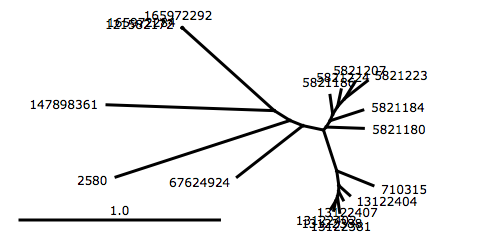
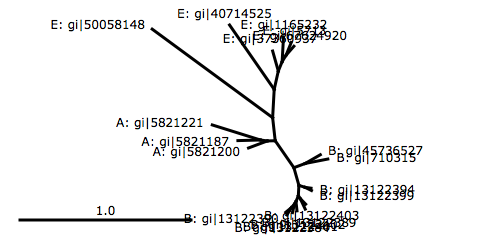
Updated the tutorial to improve the visual results by incorporating domain labels for each tip in the tree. Also rearranged some sections, and added example sequences.
git-svn-id: https://pycogent.svn.sourceforge.net/svnroot/pycogent/trunk@985 4565cf14-4326-0410-8d81-eccf4396eebe

Changed region(s): [[0.0625, 0.0292, 0.9062, 0.9917], [0.3438, 0.7292, 0.5, 0.7875], [0.1875, 0.8458, 0.2812, 0.9042]]

diff --git a/doc/cookbook/building_a_tree_of_life.rst b/doc/cookbook/building_a_tree_of_life.rst
@@ -46,30 +46,24 @@ You can check how many sequences you obtained for each query by running::
 Step 2: Load the sequences
 --------------------------
 
-We'll begin by loading the sequences that have been downloaded, applying a filter to retain only those that we consider to be of good quality, and renaming the sequences in the process. Sequences fewer than 750 bases or sequences containing one or more ``N``  characters will be ignored (these represent ambiguous bases).
+We'll begin by loading the sequences that have been downloaded, applying a filter to retain only those that we consider to be of good quality. Sequences fewer than 750 bases or sequences containing one or more ``N``  characters will be ignored (``N`` characters typically represent ambiguous base calls during sequencing).
 
 First, define a function to load and filter the sequences::
 
 	from cogent.parse.fasta import MinimalFastaParser
 	
-	def load_and_filter_seqs(seqs):
-	    filtered_seqs = []
-	    id_lookup = {}
+	def load_and_filter_seqs(seqs, domain_label):
+	    result = []
 	    for seq_id, seq in seqs:
-	        # Extract the accession number from the sequence.
-	        # Use that as the new sequence identifier.
-	        new_id = seq_id.split('|')[1]
-	        # Create a mapping from new to old identifiers.
-	        id_lookup[new_id] = seq_id
 	        if len(seq) > 750 and seq.count('N') < 1:
-	            filtered_seqs.append((new_id,seq))
-	    return filtered_seqs, id_lookup
+	            result.append((domain_label + seq_id,seq))
+	    return result
 
 Next, load and filter the three sequence sets::
 
-	arc16s_filtered, arc_ids = load_and_filter_seqs(arc16s)
-	bac16s_filtered, bac_ids = load_and_filter_seqs(bac16s)
-	euk16s_filtered, euk_ids = load_and_filter_seqs(euk16s)
+	arc16s_filtered = load_and_filter_seqs(arc16s,'A: ')
+	bac16s_filtered = load_and_filter_seqs(bac16s,'B: ')
+	euk16s_filtered = load_and_filter_seqs(euk16s,'E: ')
 	
 	len(arc16s_filtered)
 	len(bac16s_filtered)
@@ -94,14 +88,18 @@ Select some random sequences from each domain. Note that only a few sequences ar
 Step 4: Load the sequences into a SequenceCollection object
 -----------------------------------------------------------
 
-Use ``LoadSeqs`` to load the unaligned sequences into a ``SequenceCollection`` object::
+Use ``LoadSeqs`` to load the unaligned sequences into a ``SequenceCollection`` object. In this step we'll rename the sequences (by passing a ``label_to_name`` function) to only the accession number for the sequence. This facilitates visualization in downstream steps.
+
+::
 
 	from cogent import LoadSeqs, DNA
-	seqs = LoadSeqs(data=combined16s,moltype=DNA,aligned=False)
+	seqs = LoadSeqs(data=combined16s,moltype=DNA,aligned=False,label_to_name=lambda x: '|'.join(x.split('|')[:2]))
 
 You can explore some properties of this sequence collection. For example, you can count how many sequences are in the sequence collection object::
 
 	seqs.getNumSeqs()
+
+.. _step5:
 
 Step 5: Align the sequences using muscle
 ----------------------------------------
@@ -136,15 +134,25 @@ Have a quick look at the unrooted dendrogram::
 You should see something like this:
 
 	.. image:: ../images/tol_not_gap_filtered.png
-	   :width: 700
 
-Figure 1: A tree of life build from 16S rRNA sequences. The tree domains are not clearly distinct.
+Figure 1: A tree of life build from 16S rRNA sequences. A: archaeal sequence; B: bacterial sequences; E: eukaryotic sequences.
 
 
-Step 8: Filter highly gapped positions from the alignment
----------------------------------------------------------
+Step 8: Save the tree as a PDF
+-------------------------------
 
-To try to improve the quality of the alignment and therefore the tree, it's often a good idea to removed positions that contain a high proportion of gap characters from the alignment. These generally represent non-homologous regions of the sequence of interest, and therefore contribute little to our understanding of the evolutionary history of the sequence.
+Finally, you can save this tree as a PDF for sharing or later viewing::
+
+	dendrogram.drawToPDF('./tol.pdf')
+
+
+Extra credit: Alignment filtering
+---------------------------------
+
+Filter highly gapped positions from the alignment
+^^^^^^^^^^^^^^^^^^^^^^^^^^^^^^^^^^^^^^^^^^^^^^^^^
+
+To try to improve the quality of the alignment and therefore the tree, it's often a good idea to removed positions that contain a high proportion of gap characters from the alignment. These generally represent non-homologous regions of the sequence of interest, and therefore contribute little to our understanding of the evolutionary history of the sequence. These steps may result in a clearer delineation of the three domains on your tree, but the results will in part be dependent on the randomly chosen sequences in your alignment.
 
 To remove positions that are greater than 10% gap characters from the alignment, run the following command::
 
@@ -155,26 +163,104 @@ If you count the positions in both the full and reduced alignments you'll see th
 	len(aln)
 	len(gap_filtered_aln)
 
-Step 9: Rebuild the tree and visualize the result
--------------------------------------------------
-
 Rebuild the tree and visualize the result as before::
 
 	gap_filtered_tree = build_tree_from_alignment(gap_filtered_aln,DNA)
 	gap_filtered_dendrogram = UnrootedDendrogram(gap_filtered_tree)
 	gap_filtered_dendrogram.showFigure()
 
-You should now see something that much more clearly looks like a tree with three distinct groups. For example:
+Your tree should look something like this:
 
 	.. image:: ../images/tol_gap_filtered.png
-	   :width: 700
 
-Figure 2: A tree of life build from 16S rRNA sequences. There now appear to be three distinct domains.
+Figure 2: A tree of life build from 16S rRNA sequences. A: archaeal sequence; B: bacterial sequences; E: eukaryotic sequences.
 
-Step 10: Save the tree as a PDF
--------------------------------
+Filtering highly variable positions
+^^^^^^^^^^^^^^^^^^^^^^^^^^^^^^^^^^^
 
-Finally, you can save this tree as a PDF for sharing or later viewing::
+Another issue that adds noise to alignments of distantly related sequences is highly entropic (or highly variable) positions. To filter these, we can compute the Shannon Entropy or uncertainty of each position, and then remove the most 10% entropic positions.
 
-	gap_filtered_dendrogram.drawToPDF('./tol.pdf')
+First we'll compile the Shannon Entropy value for each position in the alignment::
+
+	sorted_uncertainties = sorted(gap_filtered_aln.uncertainties())
+
+Next we'll find the 90th percentile by sorting the uncertainties and finding that value that is 90% of the way through that list::
+
+	uncertain_90p = sorted_uncertainties[int(len(sorted_uncertainties)*0.9)]
+
+Next we'll identify and store the positions that have lower entropy than ``uncertain_90p``::
+
+	positions_to_keep = []
+	for i,u in enumerate(gap_filtered_aln.uncertainties()):
+	     if u < uncertain_90p:
+	         positions_to_keep.append(i)
+
+Then we'll filter the alignment to contain only those positions::
+
+	entropy_gap_filtered_aln = gap_filtered_aln.takePositions(positions_to_keep)
+
+We can then rebuild and visualize the tree::
+
+	entropy_gap_filtered_tree = build_tree_from_alignment(entropy_gap_filtered_aln,DNA)
+	entropy_gap_filtered_dendrogram = UnrootedDendrogram(entropy_gap_filtered_tree)
+	entropy_gap_filtered_dendrogram.showFigure()
+
+Your tree should look something like this:
+
+	.. image:: ../images/tol_entropy_gap_filtered.png
+
+Figure 3: A tree of life build from 16S rRNA sequences. A: archaeal sequence; B: bacterial sequences; E: eukaryotic sequences.
+
+While the trees in Figures 1, 2, and 3 don't look very different, an interesting point to note is the amount of information in each::
+
+	len(aln)
+	len(gap_filtered_aln)
+	len(entropy_gap_filtered_aln)
+
+The entropy and gap filtered alignment (``entropy_gap_filtered_aln``) contains approximately 1/4 of the positions as the full alignment (``aln``), yet results in a nearly identical phylogenetic tree. This suggests that the filtered positions add very little phylogenetic information. In small alignments such as the example here this may not have a large affect on run time, but when building a tree from thousands or tens of thousands of sequences removing gap and high entropy positions can save significant compute time as well as frequently improving results.
+
+Starting with Silva sequences (to skip steps of obtaining sequences from NCBI)
+------------------------------------------------------------------------------
+The following sequences are randomly chosen from the Silva database. You can use these instead of pulling random sequences from NCBI.
+
+::
+
+	fasta_str = """>AF424517 1 994 Archaea/Crenarchaeota/uncultured/uncultured
+	CAGCAGCCGCGGTAATACCAGCCCCCCGAGTGGTGGGGATGTTTATTTGGCCTAAAACGTCCGTAGCCAGCTCGGTAAATCTCTCGTTAAATCCAGCGTCCTAAGCGTTGGGCTGCGAGGGAGACTGCCAAGCTAGAGGGTGGGAGAGGTCAGCGGTATTTCTGGGGTAGGGGCGAAATCCATTGATCCCAGGAGGACCACCAGTGGCGAAGGCTGCTGACTAGAACACGCCTGACGGTGAGGGACGAAAGCTGGGGGAGCAAACCGGATTAGATACCCGGGTAGTCCCAGCTGTAAACGATGCAAACTCGGTGATGCCCTGGCTTGTGGCCAGTGCAGTGCCGCAGGGAAGCCGTTAAGTTTGCCGCCTGGGAAGTACGTACGCAAGTATGAAACTTAAAGGAATTGGCGGGGGAGCACCACAAGGGGTGAAGCCTGCGGTTCAATTGGAGTCAACGCCAGAAATCTTACCCGAAGAGACAGCAGAATGAAGGTCAAGCTGGAGACTTTACCAGACAAGCTGAGAAGTGGTGCATGGCCGTCGCCAGCTCGTGCCGTGAGATGTCCTGTTAAGTCAGGTAACCAGCGAGATCCCTGCCTCTAGTTGCCACCATTACTCTCCGGAGTAGTGGGGCGAATTAGCGGGACCGCCGTAGTTAATACGGAGGAAGGAAGGGGCCACGGCAGGTCAGTATGCCCTGAAACTTTGGGGCCACACGCGGGCTGCAATGGTAACGACAATGGGTTCCGAAACCGAAAGGTGGAGGTAATCCTCAAACGTTACCACAGTTATGATTGAGGGCTGCAACTCGCCCTCATGAATATGGAATCCCTAGTAACTGCGTGTCATTATCGCGCGGTGAATACGTCCCTGCTCCTTGCACACACTGCCCGTCGAACCACCCGAATGAGGTTTGGGTGAGGAATGGTCGAATGTTGGCCGTTTCGAACCTGGGCTTCGTAAGGAGGGTTAAGTCGTAACAAGGTAACCGTA
+	>AF448158 1 1828 Eukarya/Metazoa/Magelona et rel.
+	TTGATCCTGCCAGTAGTCATATGCTTGACTCAAAGATTAAGCCATGCATGTGCAAGTACATGACTTTTTTACACACGGTGAGACCGCGAATGGCTCATTAGATCAGTCTTAGTTCCTTAGACGGAAAGTGCTACTTGGATAACTGTGGCAATTCTAGAGCTAATACGTGCACGCAAGCTCCGACCTACTGGGGAAGAGCGCAATTATTAGATCAAGACCAAACGAGTCGAAAGGCTCGAACGTCTGGTGACTCTGGATAACCTCGGGCTGACCGCACGGCCAAGAGCCGGCGGCGCATCTTTCAAGTGTCTGCCCTATCAACTTTCGATGGTATGCGATCTGCGTACCATGGTGCTTACGGGTAACGGGGAATCAGGGTTCGATTCCGGAGAGGGAGCATGAGAAACGGCTACCACCTCCAAGGAAGGCAGCAGGCGCGCAAATTACCCACTCCTGGCACAGGGAGGTAGTGACGAGCAATAGCGACTCGGGACTCTTTCGAGGCCTCGGGATCGGAATGAGTACAACGTAAACACTTTTGCAAGGAACAATTGGAGGGCAAGTCTGGTGCCAGCAGCCGCGGTAATTCCAGCTCCAATAGCGTATATTAAAGCTGTTGCAGTTAAAAAGCTCGTAGCTGAATCTCGGGTGCGGGCGGGCGGTCCGCCTTACAGCGTGCACTGCCCCGATCCTGATCCAACTGCCGGTATTATCTCGGGGTGCTCTTAGCTGAGTGTCTTGGGCTGGCCGGTGCTTTTACTTTGAAAAAATTAGAGTGCTCAAAGCAGGCTTCCACGCCTGAATACTATAGCATGGAATAATGGAATAAGACCTCGGTTCTATTCTGTTGGTCTCTGGAAACCAGAGGTAATGATTAAGAGGGACAGACGGGGGCATTCGTATTGCGGGGCGAGAGGTGAAATTCTTAGACCCTCGCAAGACGAACTACAGCGAAAGCATTTGCCAAGCATGTTTTCTTTAGTCAAGAACGAAAGTCAGAGGTTCGAAGACGATCAGATACCGTCCTAGTTCTGACCATAAACGATGCCGACTAGCGATGCGCGAGCGTTGGTATCTGACCTCGCGCGCAGCTCCCGGGAAACCAAAGTCTTTGGGTTCCGGGGGAAGTATGGTTGCAAAGCTGAAACTTAAAGGAATTGACGGAAGGGCACCACCAGGAGTGGAGCCTGCGGCTTAATTTGACTCAACACGGGAAAACTCACCCGGCCCGGACACTGCGAGGATTGACAGATTGAGAGCTCTTTCTTGATTCGGTGGGTGGTGGTGCATGGCCGTTCTTAGTTGGTGGAGTGATTTGTCTGGTTAATTCCGATAACGAACGAGACTCTAGCCTGCTAAATAGTTCGTCGACACGCGGTTGTGTCTGGCGAGGAAACTTCTTAGAGGGACAAATGGCATTTAGTCATACGAGATTGAGCAATAACAGGTCTGTGATGCCCTTAGATGTTCGGGGCCGCACGCGCGCTACACTGAAGGAGACAGCGAGTGTCCTGACCTAGCCCGAAAGGGCCGGGCAATCTGCTGAACCTCTTTCGTGGTAGGGATTGGGGCTTGCAATTGTTCCCCATGAACCAGGAATTCCGAGTAAGCGCAGGTCACAAGCCTGCGTTGATTACGTCCCTGCCCTTTGTACACACCGCCCGTCGCTACTACCGATTGAGCGGTTCAGTGAGACCCTCGGACTTGCCCAGCAGGAGCCGGCGACGGCTCCGCGTGTGTGCGAGAAAGAATGTCGAACTGTATTGCTTAGAGGAAGTAAAAGTCGTAACAAGGTTTCCGTAGGTGAACCTGCAGAAGGATCAAGCTT
+	>AJ428075 1 1749 Eukarya/Viridiplantae/Streptophyta/Klebsormidiophyceae
+	TAGTCATATGCTTGTCTCAAAGATTAAGCCATGCATGTCTAAGTATAAATTACTCTAAATGGTAAAACTGCGAATGGCTCATTAAATCAGTTATAGTTTATTTGATGATTCCTGCTACTCGGATAACCGTAGTAATTATAGAGCTAATACGTGCGCAAACGCCCGACTTCGGAAGGGCCGTATTTATTAGATAAAAGACCAACTCGGGGTTCGCCCCGAAACTTTGGTGATTCATAATGTAATCTCGGACCGCACGGCCTCGCGCCGGCGGCAAATCAATCAAATATCTGCCCTATCAACTTTCGATGGCAGGATAGTCGCCTGCCATGGTTGTAACGGGTGACGGAGAATTAGGGTTCGATTCCGGAGAGGGAGCATGAGAAACGGCTACCACATCCAAGGAAGGCAGCAGGCGCGCAAATTACCCAATCCTGATTCAGGGAGGTAGTGACAATAAATAACAATACCGGTCTCTTATGTGACTGGTAATTGGAATGAGCGGAACATAAATACCTTAACGAGGATCCATTGGAGGGCAAGTCTGGTGCCAGCAGCCGCGGTAATTCCAGCTCCAATAGCGTATATTTAAGTTGTTGCAGTTAAAAAGCTCGTAGTTGGATTTCGGGACGGAGACGTCGGTCCTCCCTCGTGGTCGATACTGACTCTCTTCCTTAATTGCCTCGAGCGCCGCCTAGTCTTCATTGCCTGGGCGCGCTACGCGGCGCCGTTACCTTGAATAAATTATGGTGTTCAAAGCAGGCTTATGCTCTGAGTACATTAGCATGGAATAACGCTATAGGACTCCGGTCCTATTACGTTGGTCTTCTGACCGGAGTAATGATTAATAGGGACAGTCGGGGGCATTCGTACTTCATCGTTAGAGGTGAAATTCTTGGATCGATGAAAGACGAACTTCTGCGAAAGCATTTGCCAAGGATGTTTTCATTAATCAAGAACGAAAGTTGGGGGCGCGAAGACGATTAGATACCGTCCTAGTCCCAACCGTAAACGATGCCGACCCCGAATTGGCGCACGTATGACTTGACGTCGCCAGCGCCCGAGGAGAAATCAGAGTCTTTGGGTTCCGGGGGGAGTATGGTCGCAAGTCTGAAACTTAAAGGAATTGACGGAAGGGCACCACCAGGTGTGGAGCGTGCGGCTTAATTTGACTCAACGCGGGGAATCTTACCAGGTCCAGACATAGCGACGATTGACAGACTGATAGCTCTTTCTTGATCATATGGGTAGTGGTGCATGGCCGTTCTTAGTTGGTGGAGTGATTTGTCTGGTTAATTCCGTTAACGAACGAGACCTCAGCTTGCTAACTAGTTGCGCGAAGATTTTCTTCGCGCACACTTCTTAGAAGGACTTTGAGCGTTTAGCTCATGGAGGTTTGAGGCAATAACAGGTCTGTGATGCCCTTAGATGTTCTGGGCCGCACGCGCGCTACAATGATGCATTCAGCGAGCGGAATCCCTGATCGGAAACGGTCGGGCAATCTTTGAATCTTTATCGTGATGGGGATAGACCCTTGCAATTATTGGTCTCGAACGAGGAATACCTAGTAAGCGCTCGTCATCAGCGTGCGCTGACTACGTCCCTGCCCTTTGTACACACCGCCCGTCGCTCCTACCGATAGAATGCTTCGGTGAAGCACTCGGATCGCGCCGCCGSCGGCGAAACCTCCGGGGACGGCATGAGAAGTTTGTTAAACCATATCGTTTAGAGGAAGGAGAAGTCGTAACAAGG
+	>AJ850036 1 1961 Eukarya/Metazoa/Arthropoda/Polyphaga/Bagous et rel.
+	TTGTCTCAAAGATTAAGCCATGCATGTCTCAGTACAAGCCATATTAAGGTGAAACCGCGAAAGGCTCATTAAATCAGTTATGGTTCCTTAGATCGTACCCAGGTTACTTGGATAACTGTGGTAATTCTAGAGCTAATACATGCAAACAGAGCTCCGACTGGAAACGGAAGGAGTGCTTTTATTAGATCAAAGCCAAACGGTAACTTAATGTTGTCGTACAATAATATTGTTGACTCTGAATAACTTTATGCTGATCGCATGGTCTTGCACCGGCGACGCATCTTTCAAATGTCTGCCTTATCAACTGTCGATGGTAGGTTCTGCGCCTACCATGGTTGTAACGGGTAACGGGGAATCAGGGTTCGATTCCGGAGAGGGAGCCTGAGAAACGGCTACCACATCCAAGGAAGGCAGCAGGCGCGCAAATTACCCACTCCCGGCACGGGGAGGTAGTGACGAAAAATAACGATACGGGACTCATCCGAGGCCCCGTAATCGGAATGAGTACACTTTAAATCCTTTAACGAGGATCAATTGGAGGGCAAGTCTGGTGCCAGCAGCCGCGGTAATTCCAGCTCCAATAGCGTATATTAAAGTTGTTGCGGTTAAAAAGCTCGTAGTCAAATTTGTGTCTCGTGCCGCTGGTTCATCGTTCGCGGTGTTAATTGGCGTGATACGAGACGTCCTGCCGGTGGGCTTTCAGATTTTTCCGTATTTCAGGACCATAACAATTGGTTTGTATCTGTGGCGTAATACTGCAGTGCAGGGCAATTGGTTAATGAACGGTTGGTTTTTGTGCTACCCAAACTTACAATCCTGTCGCGTTGCTCTTGATTGAGTGACGAGGTGGGCCGGCACGTTTACTTTGAACAAATTAGAGTGCTTAAAGCAGGCAAAATTTCGCCTGAATATTCTGTGCATGGAATAATGGAATAGGACCTCGGTTCTATTTCGTTGGTTTTCGGAACTCCGAGGTAATGATTAATAGGAACGGATGGGGGCATTCGTATTGCGACGTTAGAGGTGAAATTCTTGGATCGTCGCAAGACGAACAGAAGCGAAAGCATTTGCCAAAAACGCTTTCATTGATCAAGAACGAAAGTTAGAGGTTCGAAGGCGATCAGATACCGCCCTAGTTCTAACCGTAAACTATGTCATCTGACGATCCGTCGACGTTCCTTTATTGACTCGACGGGCAGTTTCCGGGAAACCAAAGATTTTGGGTTCCGGGGGAAGTATGGTTGCAAAGCTGAAACTTAAAGGAATTGACGGAAGGGCACCACCAGGAGTGGAGCCTGCGGCTTAATTTGACTCAACACGGGAAACCTCACCAGGCCCGGACACCGGAAGGATTGACAGATTGAGAGCTCTTTCTTGATTCGGTGGGTGGTGGTGCATGGCCGTTCTTAGTTGGTGGAGCGATTTGTCTGGTTAATTCCGATAACGAACGAGACTCTAGCCTGCTAAATAGGCGACATATGACATCGCAAAGGCCAGCCGGTTTGATTTAAAGGGTGGCGAGGTGGCGTCAAGGCGTTTATCTCGTGCTCTTGTCAGATTGTGCGCGGTTTTTACTGTCGGCGTATAAATAATTCTTCTTAGAGGGACAGGCGGCTTTTAGCCGCACGAGATTGAGCAATAACAGGTCTGTGATGCCCTTAGATGTTCTGGGCCGCACGCGCGCTACACTGAAGGAATCAGCGTGTCCTCCCTGGCCGAGTGGCCCGGGTAACCCGCTGAACCTCCTTCGTGCTAGGGATTGGGGCTTGCAATTGTTCCCCATGAACGAGGAATTCCCAGTAAGCGCGAGTCATAAGCTCGCGTTGATTACGTCCCTGCCCTTTGTACACACCGCCCGTCGCTACTACCGATTGAATGATTTACTGAGGTCTTCGGATCGATGCGCGATGACGTCTGACGTTGATCGATGTATCCGAGAAGATGACCAAACTTGATCATTT
+	>AM745254 1 1365 Archaea/Euryarchaeota/Halobacteriales/uncultured
+	TTCCGGTTGATCCTGCCGGACCTGACTGCTATTGGAGTAGGACTAAGTCACGCTAGTCAAAGGTGTGGAATGGAACACCTGGCGCACGGCTCAGTAACACGTAGTGAACCTACCCTAAGGACGAGGACAACCACGGGAAACTGTGGCTAATCCTCGATAGGAAATTTGGCCTGGAACGGTATCTTTCCTAAAACCGGCTCGCCGTGAGACACGGGCCTTAGGATGGCGCTGCGGCCGATTATGCTAGACGGCGGTGTAAAGGACCACCGTGGCGACGATCGGTATGGGCGATGGAAGTCGGAGCCCAGAGTCGGCTACTGAGACAAGGAGCCGAGCCTTACGAGGCTTAGCGGTCGCGAAAACTCGCCAATGCACGAAAGTGTGAGTGGGCTACTCCAAGTGTCATTCTTACGGATGACTGTCGCCCAGTTTTACAAGCTGGGAAAGGAAGGAGAGGGCAAGGCTGGTGCCAGCCGCCGCGGTAAAACCAGCTCTTCGAGTGGTCAGGACGAATATTGGGTCTAAAGCGTTCGTAGCGGGACAAGTAGGTTCCTGGTTAAATCCGATGTCACAAGCATCGGGCTGCTGGGAATACCGCTAGTCTTGAGAGCGGGATAGGACAGGGGTAGTCTATGGGCAGGGGTGAAATCCAGTGATCCATAGGCGACCACCGATGGCGAAGGCACCTGTCTGGAACGTATCTAACCGTGATGGACGAAAGCCAGGGGAGCGACCCGGATTAGATACCCGGTTAGTCCTGGCCGTAAACGATGCCGACTAGGTGTTGCAGCGGCCAAGAGCCACTGCAGTGCCACAGTGAAGACGTTAAGTCGGCCACCTGGGGAGTACGGTCGCAAGACTGAAACTTAAAGGAATTGACGGGGGCGCACCACCAGGAGTGAAGCCTGCGGTTTAATTGGATTCAACGCCGAAAAACTCACCTAAACAGACGGCAGAATGAAGCTCAAGTTAATGACTTTAGCTAACTCGCCGAGAGGAAGTGCATGGCCGTCGACAGTTCGTGCTGTGAAGTGTCTTGTTAAGTCAAGCAACGAACGAGATCCACGTCCGCAATTGCCAGCGGGTCCCTTTGGGATGCCGGGAACCTTGCGGAGACTGCTTGGTGCTAAACCAGAGGAAGGAGTGGGCAACGGCAGGTCAGTATGCTCCGATAGTTTAGGGCTACACGCGGGCTGCAATGGTCGGTACAATGGGCCGCGACCCCGAAAGGGGAAGCCAATCCCGAAAGCCGGTCTCAGTCAGGATTGGGGTTTGCAACTCAGCCCCATGAATATGGAATTCCTAGTAAACGTGTTTCATTAAGACACGTTGAATACGTCCCCGCGCCTTGTACACACCGCCCGT
+	>AY175392 1 1057 Archaea/Euryarchaeota/Methanomicrobiales
+	CCCTTTCTGGTTGATCCTGCCAGAGGCCACTGCTATCGGGGTTCGACTAAGCCATGCGAGTCGAGAGGGGTAATGCCCTCGGCGAACGGCTCAGTAACACGTGGACAACCTACCCTCAGATCTGGGATAACTCCGGGAAACTGGAGATAATACCGGATAATCCGTGAACGCTGGAATGCCTTACGGTTCAAAGCTTTAGCGTCTGAGGATGGGTCTGCGGCCGATTAGGTAGTTGCTGGGGTAACGTCCCAACAAGCCGATAATCGGTACGGGTTGTGAGAGCAAGAGCCCGGAGATGGATTCTGAGACACGAATCCAGGTCCTACGGGGCGCAGCAGGCGCGAAAACTTTACACTGCGCGAAAGCGCGATAAGGGAACCTCGAGTGCGTGCGCAATGCGTACGCTTTTCACATGCCTAAAAAGCATGTGGAATAAGAGCCGGGCAAGACCGGTGCCAGCCGCCGCGGTAACACCGGCGGCTCAAGTGGTGGCCGCTATTATTGGGCTTAAAGGGTCCGTAGCCGGACCAGTTAGTCCCTTGGGAAATCTTACGGCTTAACCGTAAGGCTGCCAATGGATACTGCTGGCCTTGGGACCGGGAGAGGCAAGAGGTACCTCAGGGGTAGGAGTGAAATCCTGTAATCCTTGAGGGACCGCCAGTGGCGAAGGCGTCTTGCTAGAACGGGTCCGACGGTGAGGGACGAAAGCTAGGGGCACGAACCGGATTAGATACCCGGGTAGTCCTAGCCGTAAACGATGCGAGCTAGGTGTCACGTGGATTGCGAATCCATGTGGTGCCGTAGGGAAACCGTGAAGCTCGCCGCCTGGGAAGTACGGCCGCAAGGCTGAAACTTAAAGGAATTGGCGGGGGAGCACCACAACGGGTGGAGCCTGCGGTTTAATTGGACTCAACGCCGGAAAGCTCACCGGAGACGACAGCGGGATGAGGGCCAGGCTGATGACCTTGCTAGACTAGCTGAGAGGAGGTGCATGGCCGCCGTCAGTTCGTACCGTGAGGCGTCCTGTTAAGTCAGGCAACGAGCGAGACCCAAAGGG
+	>AY284588 1 1736 Eukarya/Metazoa/Nematoda/Aphelenchus et rel.
+	CTCAAAGATTAAGCCATGCATGTGTAAGTATAAACGATTCAATCGTGAAACCGCGAACGGCTCATTATAACAGCTATGATCTACTTGATCTTGAGAATCCTAATTGGATAACTGTAGTAATTCTAGAGCTAATACATGCATAAGAGCTCGAACCTTGCGCAAGCGGGGGAAGAGTGCATTTATTGGAAGAAGACCAGTTGTGGCTGTAAAAAGCTGCATGTCGTTGACTCGCAATAACTAAGCTGATCGCATGGCCTTGTGCCGGCGACGAGTCTTTCGAGTATCTGCCTTATCAACTTTCGACGGTAGTGTATTTGACTACCATGGTGGTGACGGGTAACGGAGGATAAGGGTTCGACTCCGGAGAAGGGGCCTGAGAAATGGCCACTACGTCTAAGGATGGCAGCAGGCGCGCAAATTACCCACTCTCGGTACGAGGAGGTAGTGACGAAAAATAACGAAGAGGTCCCCTATGGGTCTTCTATTGGAATGGGTACAATTTAAACCCTTTAACGATTAACCAAGAGAGGGCAAGTCTGGTGCCAGCAGCCGCGGTAATTCCAGCTCTCTAAATGCATAGATACATTGCTGCGGTTAAAAAGCTCGTAGTTGGATCTGTGTTGGGGACTTGGTCCACTCTAACGGGTGGTACTTTGCTCCTTGACAATCAATGTTGGCTCACTTGGCGTAGTCTTCAGTGATTGCGTCATAGTTGGCTGACGAGTTTACTTTGAGCAAATCAGAGTGCTCCAAACAGGCGTTTACGCTTGAATGTTCGTGCATGGAATAATAGAAGAGGATTTCGGTTCTATTTTGTTGGTTTTGAGACCGAGATAATGGTTAACAGAGACAGACGGGGGCATTCGTACTTCTGCGTGAGAGGTGAAATTCTTGGACCGCAGAAAGACGCACCACAGCGAAAGCATTTGCCAAGAATGTCTTCATTAATCAAGAACGAAAGTCAGAGGATCGAAGGCGATCAGATACCGCCCTAGTTCTGACCGTAAACGATGCCAACTAGCGATCTGTCGGTGGTGTGTTTTCGCCCTGATAGGGAGCTTCCCGGAAACGAAAGTCTTCGGGTTCCGGGGGAAGTATGGTTGCAAAGCTGAAACTTAAAGGAATTGACGGAAGGGCACCACCAGGAGTGGAGCCTGCGGCTTAATTTGACTCAACACGGGAAACCTCACCCGGGCCGGACACCGTAAGGATTGACAAATTGATAGCTTTTTCATGATTCGGTGGTTGGTGGTGCATGGCCGTTCTTAGTTCGTGGAGCGATTTGTCTGGTTTATTCCGATAACGAGCGAGACTCTAGCCTACTAAATAGTTGGCACATTACATTGTGCGTCCTAACTTCTTAGAGGGATTTACGGCGTATAGCCGCAAGAGAATGAGCAATAACAGGTCTGTGATGCCCTTAGATGTCCGGGGCTGCACGCGCGCTACACTGGTGAAATCAACGTGTTCTCCTATGCCGAGAGGCACTTGGGTAAACCATTGAAAATTCGCCGTGATTGGGATCGGAGATTGAAATTATTTTCCGTGAACGAGGAATTCCAAGTAAGTGCGAGTCATCAACTCGCGTTGATTACGTCCCTGCCCTTTGTACACACCGCCCGTCGCTACCCGGGACTGGGTTATTTCGAGAAATTTGAGGATTGGCTAGGTGCTTGATGCCTCCGGGTGTCATCGCCTGTCGAGAATCAACTTAATCGAGATGGCCTGAACCGGGT
+	>AY454558 1 1110 Archaea/Crenarchaeota/uncultured/uncultured
+	ACTCACTAAGAGCGAATTGGGCCTTTCGTCGCATGCTAAAAGGCCGCCATGGCCGCGGGATTGGGCACGGGGGGACGGGTTGCCGCAGGCGCGAAACCTCTGCAATAGGCGAAAGCTTGACAGGGTTACTCTGAGTGATTTCCGTTAAGGAGATCTTTTGGCACCTCTAAAAATGGTGCAGAATAAGGGGTGGGCAAGTCTGGTGTCAGCCGCCGCGGTAATACCAGCACCCCGAGTGGTCGGGACGTTTATTGGGCCTAAAGCATCCGTAGCCGGTTCTACAAGTCTTCCGTTAAATCCACCTGCTTAACAGATGGGCTGCGGAAGATACTATAGAGCTAGGAGGCGGGAGAGGCAAGCGGTACTCGATGGGTAGGGGTAAAATCCGTTGATCCATTGAAGACCACCAGTGGCGAAGGCGGCTTGCCAGAACGCGCTCGACGGTGAGGGATGAAAGCTGGGGGAGCAAACCGGATTAGATACCCGGGTAGTCCCAGCTGTAAACGATGCAGACTCGGTGATGAGTTGGCTTCTTGCTAACTCAGTGCCGCAGGGAAGCCGTTAAGTTTGCCGCCTGGGGAGTACGGTCGCAAGACTGAAACTTAAAGGAATTGGCGGGGGAGCACCACAAGGGGTGAAGCCTGCGGTTCAATTGGAGTCAACGCCGGAAATCTTACCGGGGGCGACAGCAGAGTGAAGGTCAAGCTGAAGACTTTACCAGACAAGCTGAGAGGAGGTGCATGGCCGTCGCCAGCTCGTGCCGTGAGGTGTCCTGTTAAGTCAGGTAACGAGCGAGATCCCTGCCTCTAGTTGCTACCATTATTCTCAGGAGTAGTGGAGCTAATTAGAGGGACCGCCGTCGCTGAGACGGAGGAAGGTGGGGGCTACGGCAGGTCAGTATGCCCCGAAACCCTCGGGCCACACGCGGGCTGCAATGGTAAGGACAATGAGTTTCAATTCCGAAAGGAGGAGGCAATCTCTAAACCTTACCACAGTTATGATTGAGGGCTGAAACTCGCCCTCATGAATATGGAATCCCTAGTAACCGCGTGTCACTATCGCGCGGTGAATACGTCCCTGCTCCTTGCACGAGTTAACCGAATCACTAGT
+	>DQ421767 1 1422 Bacteria/Beta Gammaproteobacteria/Gammaproteobacteria_1/Oceanospirillales_2/Marinomonas
+	AGCGGTAACAGGAATTAGCTTGCTAATTTGCTGACGAGCGGCGGACGGGTGAGTAACGCGTAGGAATCTGCCTGGTAGTGGGGGACAACATGTGGAAACGCATGCTAATACCGCATACGCCCTACGGGGGAAAGGAGGGGATCTTCGGACCTTTCGCTATCAGATGAGCCTGCGTGAGATTAGCTAGTTGGTGGGGTAAAGGCTCACCAAGGCGACGATCTCTAGCTGGTCTGAGAGGATGATCAGCCACACTGGGACTGAGACACGGCCCAGACTCCTACGGGAGGCAGCAGTGGGGAATATTGGACAATGGGCGCAAGCCTGATCCAGCCATGCCGCGTGTGTGAAGAAGGCCTTCGGGTTGTAAAGCACTTTCAGTTGGGAAGATGATGACGTTACCAACAGAAGAAGCACCGGCTAAATCCGTGCCAGCAGCCGCGGTAATACGGAGGGGGTTAGCGTTGTTCGGAATTACTGGGCGTAAAGCGCGCGTAGGCGGACCAGAAAGTTGGGGGTGAAATCCCGGGGCTCAACCCCGGAACGGCCTCCAAAACTCCTGGTCTTGAGTACGGCAGAGGGGGATGGAATTCCGCGTGTAGCAGTGAAATGCGTAGATATAGGAAGGAACATCAGTGGCGAAGGCGACACCCTGGACCGATACTGACACTGAGGTGCGAAAGCGTGGGGAGCAAACAGGATTAGATACCCTGGTAGTCCACGCCGTAAACGATGTCTACTAGCCGTTGGGGATTTTATTCTTAGTGGCGCAGCTAACGCGATAAGTAGACCGCCTGGGGAGTACGGCCGCAAGGTTAAAACTCAAATGAATTGACGGGGGCCCGCACAAGCGGTGGAGCATGTGGTTTAATTCGAAGCAACGCGAAGAACCTTACCTACTCTTGACATCCAGAGAATTTAGCAGAGATGCTTTAGTGCCTTCGGGAACTCTGAGACAGGTGCTGCATGGCTGTCGTCAGCTCGTGTTGTGAGATGTTGGGTTAAGTCCCGTAACGAGCGCAACCCTTATCCTTATTTGCCAGCACTTCGGGTGGGAACTCTAAGGAGACTGCCGGTGACAAACCGGAGGAAGGTGGGGACGACGTCAAGTCATCATGGCCCTTACGAGTAGGGCTACACACGTGCTACAATGGCGTATACAGAGGGCCGCAAGACCGCGAGGTGGAGCAAATCCCAAAAAGTACGTCGTAGTCCGGATTGGAGTCTGCAACTCGACTCCATGAAGTCGGAATCGCTAGTAATCGTGAATCAGAATGTCACGGTGAATACGTTCCCGGGCCTTGTACACACCGCCCGTCACACCATGGGAGTTGATTGCTCCAGAAGTAGCTAGCTTAACCTTCGGGATGGCGGTTACCACGGAGTGGTCATGACTGGGGTGAAGTCGTAACAAGGTAGCCTAGG
+	>DQ628981 1 1786 Eukarya/Rhodophyta et al./Rhodophyta/Florideophyceae/Corallinales
+	CACCTGGTTGATCCTGCCAGTGGTATATGCTTGTCTCAAAGACTAAGCCATGCAAGTCTAAGTATAAGTTATTCTTACGACAAAACTGCGAATGGCTCGGTAAAACAGCAATAATTTCTTCAGTGATGATTTTACTCACGGATAACCGTAGTAATTCTAGAGCTAATACGTGCAAATTAAAGCAATGACCGCAAGGCCAGCGCTGTGCCGTTTAGATAACAACACCATCATTTGGTGATTCATAATCGTCTTTCTGATCGCTTCGTGCGACACACTGTTCAAATTTCTGACCTATCAACTTTCGATGGTAAGGTAGTGTCTTACCATGGTTATGACGGGTAACGGACCGTGGGTGCGGGATTCCGGAGAGGGAGCCTGAGAAACGGCTACCACATCCAAGGAAGGCAGCAGGCGCGTAAATTACCCAATCCAGACACTGGGAGGTAGTGACAAGAAATATCAATGGGGGAACTGTAAAGTTCTTCCAATTGGAATGAGATCGAGCTAAATAGCCAAATCGAGAATCCAGCAGAGGGCAAGTCTGGTGCCAGCAGCCGCGGTAATTCCAGCTCTGTAAGCGTATACCAAAGTTGTTGCACTTAAAACGCTCGTAGTCGGACATTGGTAGTTCCGGGAGTGTGCGCGTCGTGTGCATGCTCTGCGGGACTGCCTTTCGTGGAGTTGTCGGAGGGATGAAGCATTTTAATTAATGAACGTCCACCGCGCCCACTTTTTACTGTGAGAAAATCAGAGTGCTCAAAGCAGGCAATTGCCGTGAATGTATTAGCATGGAATAATAGAATAGGACTCGTTTCTATTTTGTTGGTTTGTTGGGAATGAGTAATGATTAAGAGGGACAGTTGGGGGCATTTGTATTACGAGGCTAGAGGTGAAATTCTTAGATTCTCGTAAGACAAACTGCTGCGAAAGCGTCTGCCAAGGATGTTTTCATTGATCAAGAACGAAAGTAAGGGGATCGAAGACGATCAGATACCGTCGTAGTCTTTACTATAAACGATGAGAACTAGGGATCGGGCGAGGCATTACGATGACCCGCCCGGCACCTTCCGCGAAAGCAAAGTGTTTGCTTTCTGGGGGGAGTATGGTCGCAAGGCTGAAACTTAAAGGAATTGACGGAAGGGCATCACCGGGTGTGGAGCCTGCGGCTTAATTTGACTCAACACGGGAAAACTTACCAGGTCAGGACATAGTGAGGATGAACAGATTGAGAGCTCTTTTTTGATTCTATGGTTGGTGGTGCATGGCCGTTCTTAGTTGGTGGAGTGATTTGTCTGGTTAATTCCGTTAACGAGCGAGACCTGGGCGTGCTAACTAGGAGAGGCTACACTCGTGGTAGTTTTCGACTTCTTAGACGGACTGGTGGCGTCTAGCCACCGGAAGCTCCAGGCAATAACAGGTCTGAGATGCCCTTAGATGTTCTGGGCCGCACGCGTGCTACACTGAGTAATTCAATGGGTAAGGGAACACGAAAGTGCGACCTAATCTTGAAATTTGCTCGTGATGGGGATCGACGGTTGCAATTTTCCGTCGTGAACGAGGAATACCTTGTAGGCGCGTGTCATCATCACGCGCCGAATACGTCCCTGCCCTTTGTACACACCGCCCGTCGCTCCTACCGATTGAGTGATCCGGTGAGGCTCTGGGACCTGAGCGGAAAGAGCGTTTCGCTTGTTCTGCTTGGGAAACTTGGTCGAACCTTATCATTTAGAGGAAGGAGAAGTCGTAACAAGGTTTCCGTAGGTGAACCTGCAGAAGGATCAAGCTA
+	>EF406474 1 1502 Bacteria/Firmicutes/Clostridiales/Ruminococcus et rel./Papillibacter et rel./Oscillospira
+	TAGAGTTTGATCCTGGCTCAGGACGAACGCTGGCGGCGTGCTTAACACATGCAAGTCGAACGGAGCACCCTTGAAGGAGTTTTCGGACAACGGATAGGAATGCTTAGTGGCGGACTGGTGAGTAACGCGTGAGGAACCTGCCTTCCAGAGGGGGACAACAGTTGGAAACGACTGCTAATACCGCATGACGCATTGGTGTCGCATGGCACTGATGTCAAAGATTTATCGCTGGAAGATGGCCTCGCGTCTGATTAGCTAGTTGGTGAGGTAACGGCCCACCAAGGCGACGATCAGTAGCCGGACTGAGAGGTTGGCCGGCCACATTGGGACTGAGATACGGCCCAGACTCCTACGGGAGGCAGCAGTGGGGAATATTGGGCAATGGACGCAAGTCTGACCCAGCAACGCCGCGTGAAGGAAGAAGGCTTTCGGGTTGTAAACTTCTTTTAAGGGGGAAGAGCAGAAGACGGTACCCCTTGAATAAGCCACGGCTAACTACGTGCCAGCAGCCGCGGTAATACGTAGGTGGCAAGCGTTGTCCGGATTTACTGGGTGTAAAGGGCGTGCAGCCGGAGAGACAAGTCAGATGTGAAATCCACGGGCTCAACCCGTGAACTGCATTTGAAACTGTTTCCCTTGAGTGTCGGAGAGGTAATCGGAATTCCTTGTGTAGCGGTGAAATGCGTAGATATTAGGAAGAACACCAGTGGCGAAGGCGGATTACTGGACGATAACTGACGGTGAGGCGCGAAAGCGTGGGGAGCAAACAGGATTAGATACCCTGGTAGTCCACGCTGTAAACGATCGATACTAGGTGTGCGGGGACTGACCCCCTGCGTGCCGGAGTTAACACAATAAGTATCGCACCTGGGGAGTACGATCGCAAGGTTGAAACTCAAAGGAATTGACGGGGGCCCGCACAAGCGGTGGATTATGTGGTTTAATTCGAAGCAACGCGAAGAACCTTACCAGGGCTTGACATCCTACTAACGAAGTAGAGATACATTAGGTGCCCTTCGGGACAAGAGAGACAGGTGGTGCATGGTTGTCGTCAGCTCGTGTCGTGAGATGTTGGGTTAAGTCCCGCAACGAGCGCAACCCTTATCTTCAGTAGCCAGCAGGTAAAGCCGGGCACTCTGGAGAGACTGCCGGGGATAACCCGGAGGAAGGTGGGGATGACGTCAAATCATCATGCCCCTTATGATTTGGGCTACACACGTGCTACAATGGCGTAAACAGAGGGAAGCGAGCCCGCGAGGGGGAGCAAATCCCAAAAATAACGTCCCAGTTCGGATTGTAGTCTGCAACCCGACTACATGAAGCTGGAATCGCTAGTAATCGCGGATCAGAATGCCGCGGTGAATACGTTCCCGGGTCTTGTACACACCGCCCGTCACACCATGGGAGTCGGAAATGCCCGAAGTCTGTGACCCAACCGCAAGGAGGGAGCAGCCGAAGGCAGGTCGGATGACTGGGGTGAAGTCGTAACAAGGTAACCGTAA
+	>EF516988 1 1782 Bacteria/Firmicutes/Bacillales Mollicutes/Staphylococcaceae/Staphylococcus/Staphylococcus aureus et rel./Staphylococcus aureus et rel./Staphylococcus warneri
+	GTACCGCTTTGGAGCCTCTCGAGTTTGATCCTGGCTCAGGAGGTCCTAACAAGGTAACCAGTATTGGATCCCCTAGAGTTTGATCCCGGCCCCTAAAGTTTGAACAAAGTCCAGGAAATTGGGGCCCCTACAGTTTAATCTCTTTTGCTTCATGGTAAAAAACTGAAAGACGGTTTCGGCTGTCGCTATTTGATGGGCCCGCGGCGCATTAGCTAGTTGGTGAGGTAACGGCTCACCAAGGCGACGATGCGTAGCCCACCTGAGAGGGTGATCGGCCACACTGGGACTGAGACACGGCCCAGACTCCTACGGGAGGCAGCAGTAGGGAATCTTCCACAATGGGCGAAAGCCTGATGGAGCAACGCCGCGTGAGTGAAGAAGGTTTTCGGATCGTAAAACTCTGTTGTAAGGGAAGAACAAGTACAGTAGTAACTGGCTGTACCTTGACGGTACCTTATTAGAAAGCCACGGCTAACTACGTGCCAGCAGCCGCGGTAATACGTAGGTGGCAAGCGTTGTCCGGAATTATTGGGCGTAAAGCGCGCGCAGGCGGTCCTTTAAGTCTGATGTGAAAGCCCACGGCTCAACCGTGGAGGGTCATTGGAAACTGGGGGACTTGAGTGCAGAAGAGGAAAGTGGAATTCCAAGTGTAGCGGTGAAATGCGTAGAGATTTGGAGGAACACCAGTGGCGAAGGCGACTTTCTGGTCTGTAACTGACGCTGAGGCGCGAAAGCGTGGGGAGCAAACAGGATTAGATACCCTGGTAGTCCACGCCGTAAACGATGAGTGCTAAGTGTTAGGGGGGTTTCCGCCCCTTAGTGCTGCAGCTAACGCATTAAGCACTCCGCCTGGAGAGTACGGTCGCAGGACTGAAACTCAAAAGAATTTGACGGGGGGCTCCTTTAAGTCTGATGTGAAAGCCCACGGCTCAACCGTGGAGGGTCATTGGAAACTGGGGGACTTGAGTGCAGAAGAGGAAAGTGGAATTCCAAGTGTAGCGGTGAAATGCGTAGAGATTTGGAGGAACACCAGTGGCGAAGGCGACTTTCTGGTCTGTAACTGACGCTGAGGCGCGAAAGCGTGGGGAGCAAACAGGATTAGATACCCTGGTAGTCCACGCCGTAAACGATGAGTGCTAAGTGTTAGGGGGTTTCCGCCCCTTAGTGCTGCAGCTAACGCATTAAGCACTCCGCCTGGGGAGTACGGTCGCAAGACTGAAACTCAAAGGAATTGACGGGGGCCCGCACAAGCGGTGGAGCATGTGGTTTAATTCGAAGCAACGCGAAGAACCTTACCAGGTCTTGACATCCCGTTGACCACTGTAGAGATATAGTTTCCCCTTCGGGGGCAACGGTGACAGGTGGTGCATGGTTGTCGTCAGCTCGTGTCGTGAGATGTTGGGTTAAGTCCCGCAACGAGCGCAACCCTTGATCTTAGTTGCCATCATTTAGTTGGGCACTCTAAGGTGACTGCCGGTGACAAACCGGAGGAAGGTGGGGATGACGTCAAATCATCATGCCCCTTATGACCTGGGCTACACACGTGCTACAATGGACGATACAAACGGTTGCCAACTCGCGAGAGGGAGGTATCCGATAAAGTCGTTCTCAGTTCGGATTGTTGGCCCCAACTCGCGTACGTGAAACCAGAATAACCAGTAATGGCTCCTCAGCATTTTGATCCGGGCTCGTTAAGTGGTAACAAGGTAACCGCTATTGGATCCTTAGAGTTTGATCCGGCTCAGGAAGTCGTAACAAGGTAACCAGTATGGTCCTCTAGAG
+	>EF551905 1 1203 Bacteria/Beta Gammaproteobacteria/Xanthomonadales
+	GATAGCGGCGCGATTCGCCCTTCCTACGGGGGGCAGCAGTGGGGAATATTGGACAATGGGCGAAAGCCAGATCCAGCCATGCCGCGTGGGTGAAGAAGGCCTTCGGGTTGTAAAGCCCTTTTGTTGGGAAAGAAAGACGTCCGGCTAATACCCGGATGGAATGACGGTACCCAAAGAATAAGCACCGGCTAACTTCGTGCCAGCAGCCGCGGTAATACGAAGGGTGCAAGCGTTACTCGGAATTACTGGGCGTAAAGGGTGCGTAGGTGGTTCGTTAAGTCTGATGTGAAAGCCCTGGGCTCAACCTGGGAATTGCATTGGATACTGGCGAGCTGGAGTGCGGTAGAGGGTAGTGGAATTCCCGGTGTAGCAGTGAAATGCGTAGATATCGGGAGGAACATCCGTGGCGAAGGCGACTACCTGGACCAGCACTGACACTGAGGCACGAAAGCGTGGGGAGCAAACAGGATTAGATACCCTGGTAGTCCACGCCCTAAACGATGCGAACTGGATGTTGGGTTCAATCAGGAACTCAGTATCGAAGCTAACGCGTTAAGTTCGCCGCCTGGGGAGTACGGTCGCAAGACTGAAACTCAAAGGAATTGACGGGGGCCCGCACAAGCGGTGGAGTATGTGGTTTAATTCGATGCAACGCGAAGAACCTTACCTGGCCTTGACATGTCGAGAACTTTCCAGAGATGGATTGGTGCCTTCGGGAACTCGAACACAGGTGCTGCATGGCTGTCGTCAGCTCGTGTCGTGAGATGTTGGGTTAAGTCCCGCAACGAGCGCAACCCTTGTCCTTAGTTGCCAGCACGTAATGGTGGGAACTCTAAGGAGACCGCCGGTGACAAACCGGAGGAAGGTGGGGATGACGTCAAGTCATCATGGCCCTTACGGCCAGGGCTACACACGTACTACAATGGGAAAGGACAGAGGGCTGCGAACCCGCGAGGGCAAGCCAATCCCAGAAACCTTTCTCCCAGTCCGGATTGGAGTCTGCAACTCGACTCCATGAAGTCGGAATCGCTAGTAATCGCAGATCAGCATTGCTGCGGTGAATACGTTTCCGGTCTTGTACAACACCGCCCGTCACACCATGGGAGTGGGTGCCACCAGAAGTAGCTAGACTACGTTCGGGAGACCGTTACCCACGGTTGAATTCATGGACTTGGGGTGAGTCCGTAAACAGGGTTACCCCCG
+	>EU132755 1 1345 Bacteria/Actinobacteria/CMN et rel./CMN/Pseudonocardiaceae_3/Pseudonocardia aurantiaca et rel./Pseudonocardia aurantiaca et rel.
+	GAACGCTTGACGGCGTGCTTACACATGCAAGTCGAACGGGCCATTGCTCTTCGGGGTGGTGGTTAGTGGCGAACGGGTGAGTAACACGTGAGTAACCTGCCCTCGGCTTCGGGATAAGCCTGGGAAACTGGGTCTAATACCGGATATTCACATCTTGTTGCATGGTGGGGTGTGGAAAGGGTTTCTGGCTGGGGATGGGCTCGCGGCCTATCAGCTTGTTGGTGGGGTGATGGCCTACCAAGGCGGTGACGGGTAGCCGGCCTGAGAGGGCGACCGGCCACACTGGGACTGAGACACGGCCCAGACTCCTACGGGAGGCAGCAGTGGGGAATATTGCGCAATGGGCGGAAGCCTGACGCAGCGACGCCGCGTGGGGGATGACGGCCTTCGGGTTGTAAACCTCTTTCAGCCCCGACGAAGCGAAAGTGACGGTAGGGGTAGAAGAAGCGCCGGCCAACTACGTGCCAGCAGCCGCGGTAATACGTAGGGCGCAAGCGTTGTCCGGATTTATTGGGCGTAAAGAGCTCGTAGGCGGTTTGTCGCGTCTTCCGTGAAAACTGGGGGCTTAACTTCCAGCTTGCGGTGGATACGGGCTGACTGGAGTGCGGCAGGGGAGACTGGAATTCCTGGTGTAGCGGTGAAATGCGCAGATATCAGGAGGAACACCGGTGGCGAAGGCGGGTCTCTGGGCCGTTACTGACGCTGAGGAGCGAAAGCGTGGGGAGCGAACAGGATTAGATACCCTGGTAGTCCACGCTGTAAACGTTGGGCGCTAGGTGTGGGGGACTTTCCACGTTCTCCGTGCCGTAGCTAACGCATTAAGCGCCCCGCCTGGGGAGTACGGCCGCAAGGCTAAAACTCAAAGGAATTGACGGGGGCCCGCACAAGCGGCGGAGCATGTGGCTTAATTCGATGCAACGCGAAGAACCTTACCTGGGTTTGACATGCGCGGTAATCCTGTAGAGATACAGGGTCCTTCGGGGCCGTGTACAGGTGGTGCATGGCTGTCGTCAGCTCGTGTCGTGAGATGTTGGGTTAAGTCCCGCAACGAGCGCAACCCTTGTTCCATGTTGCCAGCACGTGATGGTGGGGACTCATGGGAGACTGCCGGGGTCAACTCGGAGGAAGGTAGGGATGACGTCAAGTCATCATGCCCCTTATGTCCAGGGCTGCACACATGCTACAATGGCTCATACAGAGGGCTGCGATGCTGTGAGGCTGAGCGAATCCCTTAAAGTGAGTCTCAGTTCGGATCGGGGTCTGCAACTCGACCCCGTGAAGTCGGAGTCGCTAGTAATCGCAGATCAGCAACGCTGCGGTGATACGTTCCCGGGCATTGCACTCA
+	>EU570118 1 1433 Archaea/Euryarchaeota/Thermoplasmatales/uncultured
+	CGGTTGATCCTGCCGGCGCTCACCGCTCTTGGAATCCGATTAAGCCATGTGAGTCGAGAGGGTTCGGCCCTCGGCAAACTGCTCAGTAACACGTGGATAACCTAACCTAAGGTGGGAGATAATCTCGGAAAACTGAGGCTAATATCCCATAGACCTTGATGACTGGAATGTTTTGAGGTTTAAAGTTACGACGCCTTAGGATGGGTCTGCGGCCTATCAGGTTGTAGTTAGTGTAAAGGACTAACTAGCCGACGACGGGTACGGGCCATGGGAGTGGTTGCCCGGAGATGGACTCTGAGACACGAGTCCAGGCCCTACGGGGCGCAGCAGGCGCGAAAACTTTGCAATGCGCGAAAGCGCGACAAGGGGATTCCAAGTGCATGCACTAAGTGTATGCTTTTCGTGAGTGTAAAAAGCTCACGGAATAAGGGCTGGGTAAGACTGGTGCCAGCCGCCGCGGTAATACCAGCGGCCCTAGTGGTGATCGTTTTTATTGGGCCTAAAGCGTCCGTAGCCGGTTCGGTAAATCTCTGGGTAAATCGTTGGGCTTAACCCAACGAATTCTGGGGAGACTGCCGAACTTGGGACCGGGAGAGGTCGGAGGTACTCCAGGGGTAGGGGTGAAATCCTGTAATCCTTGGGGGACCACCGGTGGCGAAAGCGTCCGACCAGAACGGGTCCGACGGTAAGGGACGAAGCCCTGGGTCGCGAACCGGATTAGATACCCGGGTAGTCCAGGGTGTAAACGCTGTGCGCTTGGTGTAGGGGGTCCTACGAGGGCATCCTGTGCCGGAGAGAAGTTGTTAAGCGCACCGCCTGGGGAGTACGGTCGCAAGACTGAAACTTAAAGGAATTGGCGGGGGAGCACAGCAACGGGAGGAGCGTGCGGTTTAATTGGATTCAACGCCGGAAAACTCACCAGGGGCGACTGCCACATGAAGATCAAGCTGATGACTTTATCTGATTGGTAGAGAGGTGGTGCATGGCCGTCGTCAGTTCGTACCGTAGGGCGTTCTGTTAAGTCAGATAACGAACGAGACCCTTGCCCTTAATTGCCATGTTTCCCTCCGGGGGAACGGTACTTTAAGGGGACCGCTGGTGCAAAATCAGAGGAAGGGAAGGGCAACGGTAGGTCAGTATGCCCCGAATCCCCTGGGCAACACGCGCGCTACAAAGGCCGGGACAAAGGGTTCCGACACCGAGAGGTGAAGGTAATCCCGAAACCTGTCCGTAGTTCGGATCGAGGGCTGCAACCCGCCCTCGTGAAGCTGGATTCCGTAGTAATCGCAGATCAACATCCTGCGGTGAATATGCCCCTGCTCCTTGCACACACCGCCCGTCAAACCATCCGAGTGGAGTTTCGATGAGGGTGGGATTCTTGTCCTTCTCAAATCGCGATTTCGCAAGGAGGGTTAAGTCGTAACAAGGTAACC"""
+	
+	def label_to_name(x):
+	    fields = x.split()
+	    return '%s: %s' % (fields[3].split('/')[0], fields[0])
+	
+	seqs = LoadSeqs(data=fasta_str.split('\n'),moltype=DNA,aligned=False,label_to_name=label_to_name)
+
+Now pick up with `Step 5 <./building_a_tree_of_life.html#step5>`_ above.
 
